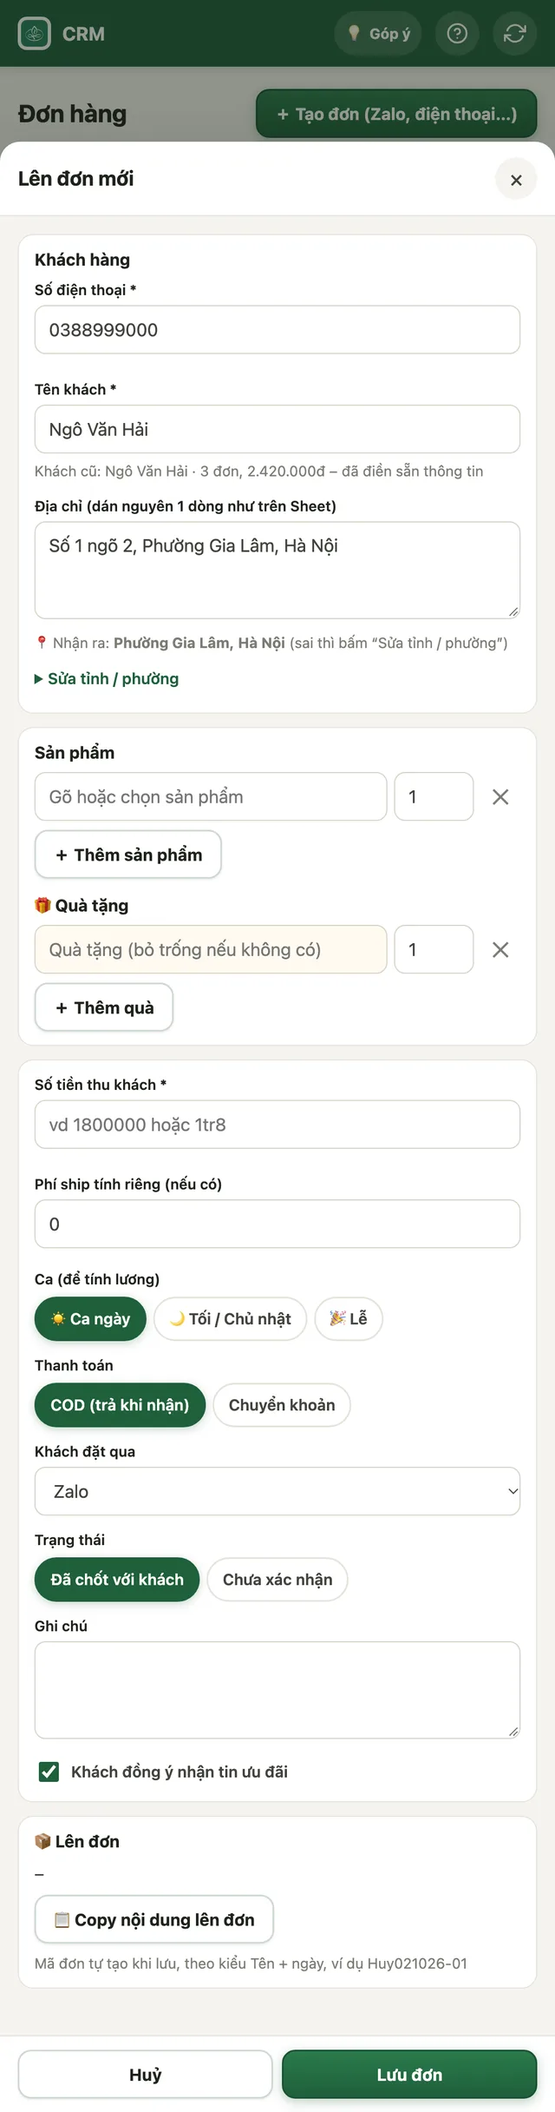
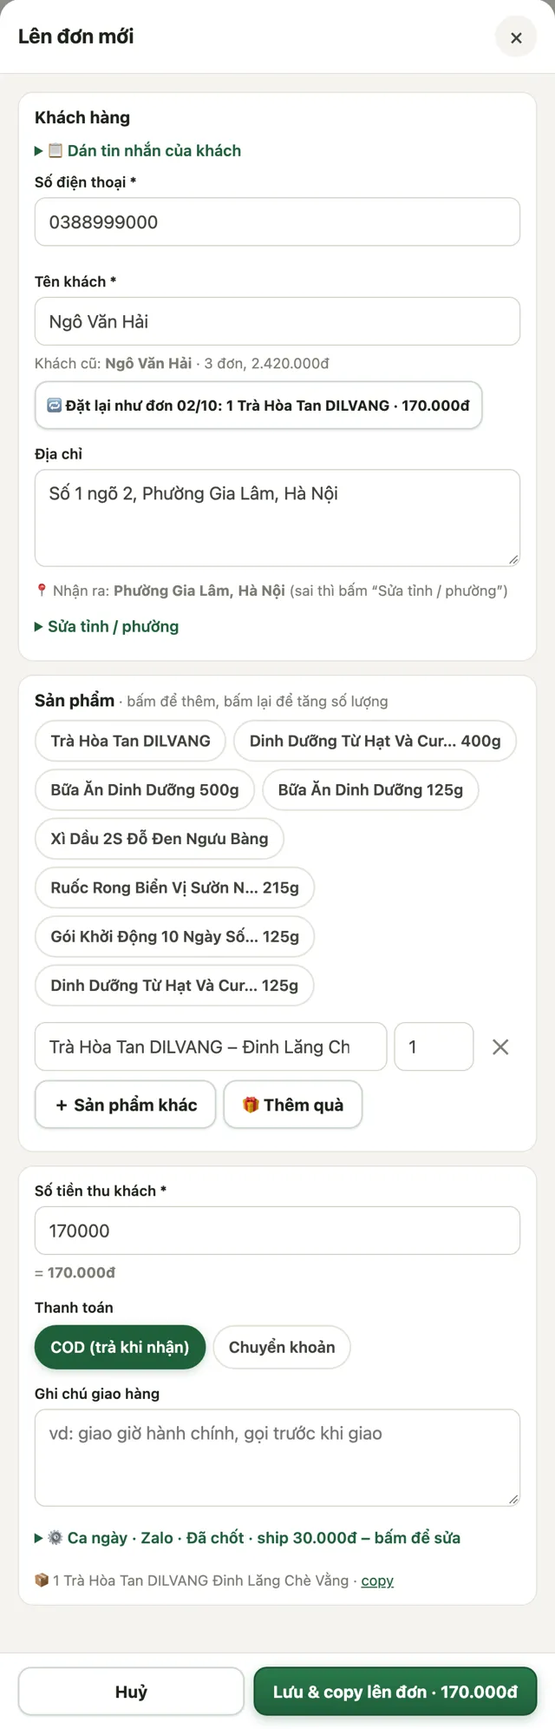
CRM: form lên đơn gọn hơn (dán tin Zalo, đặt lại như đơn trước, nút sản phẩm, gom tuỳ chọn, Lưu & copy lên đơn); ca chỉ quản lý sửa (nhận máy chủ 2026-10-05b)

diff --git a/crm/app.js b/crm/app.js
@@ -101,7 +101,7 @@
   var SERVER_V = '2026-10-02a'; // phải trùng số phiên bản máy chủ (api/src/index.js)
   var ON_CF = !/script\.google/.test(CFG.endpoint || ''); // máy chủ Cloudflare (nhanh) hay Apps Script cũ
   function checkVersion(j) {
-    if (!j || S._vWarned || j.v === SERVER_V || j.v === '2026-10-02b' || j.v === '2026-10-02c' || j.v === '2026-10-04a' || j.v === '2026-10-04b' || j.v === '2026-10-04c' || j.v === '2026-10-05a' || j.v === 'moved') return;
+    if (!j || S._vWarned || j.v === SERVER_V || j.v === '2026-10-02b' || j.v === '2026-10-02c' || j.v === '2026-10-04a' || j.v === '2026-10-04b' || j.v === '2026-10-04c' || j.v === '2026-10-05a' || j.v === '2026-10-05b' || j.v === 'moved') return;
     S._vWarned = true;
     if (lvl() >= 2 || (j.user && j.user.level >= 2)) toast('⚠ Máy chủ Apps Script đang chạy bản cũ (' + (j.v || 'chưa có số phiên bản') + '), cần bản ' + SERVER_V + '. Vào Apps Script → Triển khai → Quản lý các bản triển khai → ✏ → Phiên bản: Phiên bản mới → Triển khai.', true);
   }
@@ -1379,46 +1379,68 @@
   }
   function openNewOrder(phone) { openOrderForm({ phone: phone }); }
   /** Form đơn hàng dùng chung: tạo đơn mới (opt.phone), chốt đơn từ khách hỏi (opt.lead), sửa đơn (opt.order). */
+  /** Tin Zalo khách gửi ("Lan 0912 345 678, số 5 ngõ 12 Cầu Giấy, Hà Nội") → { phone, name, address }. */
+  function parseMsg(text) {
+    var t = String(text || '').replace(/\r/g, ''), out = { phone: '', name: '', address: '' };
+    var pm = t.match(/(?:\+?84|0)(?:[\s.\-]?\d){8,10}/); if (pm) { out.phone = normPhone(pm[0]); t = t.replace(pm[0], '\n'); }
+    var lab = function (re) { var m = t.match(re); if (!m) return ''; t = t.replace(m[0], '\n'); return m[1].trim(); };
+    out.name = lab(/(?:^|\n)\s*(?:họ\s*tên|tên(?:\s*khách)?|người\s*nhận)\s*[:\-]\s*([^\n]+)/i);
+    out.address = lab(/(?:^|\n)\s*(?:địa\s*chỉ|đ\/?c|dc)\s*[:\-]\s*([^\n]+(?:\n(?!\s*\S+\s*:)[^\n]+)*)/i);
+    t = t.replace(/(?:^|\n)\s*(?:sđt|sdt|số\s*điện\s*thoại|điện\s*thoại|đt)\s*[:\-]?\s*(?=\n|$)/gi, '\n');
+    var parts = t.split(/\n|,(?=\s*\D)/).map(function (s) { return s.replace(/^[\s,;:\-–.]+|[\s,;:\-–.]+$/g, ''); }).filter(Boolean);
+    if (!out.name) { var i = parts.findIndex(function (s) { return !/\d/.test(s) && s.split(/\s+/).length <= 5 && !/(phường|xã|quận|huyện|tỉnh|thành phố|tp|thôn|ngõ|ngách|đường|phố)\b/i.test(s); }); if (i >= 0) { out.name = parts[i]; parts.splice(i, 1); } }
+    if (!out.address) out.address = parts.join(', ');
+    out.address = out.address.replace(/\s*\n\s*/g, ', ').replace(/\s{2,}/g, ' ').trim();
+    return out;
+  }
+  function shortLabel(n) { var p = String(n).split(' – '), v = (p[1] || '').match(/\d+\s*(g|kg|ml|gói)\b/i); var s = p[0].replace(/\s+VitaGreen\b/i, '').trim(); return (s.length > 26 ? s.slice(0, 24) + '…' : s) + (v ? ' ' + v[0].replace(/\s/g, '') : p[1] && p[1].length <= 10 ? ' ' + p[1] : ''); }
+  var CA_LABEL = { 'Ngày': '☀ Ca ngày', 'Tối/CN': '🌙 Tối / CN', 'Lễ': '🎉 Lễ' };
   function openOrderForm(opt) {
     opt = opt || {};
-    var P = productOptions(), byLabel = {}, eo = opt.order || null, lead = opt.lead || null;
+    var P = productOptions(), byLabel = {}, eo = opt.order || null, lead = opt.lead || null, mgr = lvl() >= 2;
     P.forEach(function (p) { byLabel[norm(p.label)] = p; });
     var c0 = eo ? { phone: eo.phone, name: eo.name, address: eo.address, province: eo.province, ward: eo.ward, consent: eo.consent }
       : cust(opt.phone || (lead && lead.phone) || '') || (lead ? { phone: lead.phone, name: lead.name, address: '', province: '', ward: '', consent: false, isLead: true } : null);
     var names = P.map(function (p) { return p.label; }); soldNames().forEach(function (n) { if (names.indexOf(n) < 0) names.push(n); });
     var row = function (cls, it) {
-      return '<div class="item2 ' + cls + '"><input type="text" class="iName" list="noProducts" placeholder="' + (cls === 'gift' ? 'Quà tặng (bỏ trống nếu không có)' : 'Gõ hoặc chọn sản phẩm') + '" value="' + esc(it ? it.name + (it.variant ? ' – ' + it.variant : '') : '') + '">' +
+      return '<div class="item2 ' + cls + '"><input type="text" class="iName" list="noProducts" placeholder="' + (cls === 'gift' ? 'Tên quà tặng' : 'Gõ tên sản phẩm khác') + '" value="' + esc(it ? it.name + (it.variant ? ' – ' + it.variant : '') : '') + '">' +
         '<input type="number" class="iQty" min="1" max="999" inputmode="numeric" value="' + (it ? it.qty : 1) + '" aria-label="Số lượng"><button type="button" class="rm" aria-label="Bỏ">✕</button></div>';
     };
     var start = eo ? parseItems(eo.items) : [], sItems = start.filter(function (i) { return !i.gift; }), sGifts = start.filter(function (i) { return i.gift; });
     if (!eo && lead && lead.interest) sItems = [{ name: lead.interest, variant: '', qty: 1 }];
     var ca = eo ? (eo.ca || 'Ngày') : caNow(), fullAddr = c0 ? [c0.address, c0.ward, c0.province].filter(Boolean).join(', ') : '';
+    var src0 = store('crm_osrc'); if (SOURCES.indexOf(src0) < 0) src0 = SOURCES[0]; // nhớ lựa chọn lần trước của từng người
+    var caField = mgr ? '<div class="f"><span class="lbl">Ca (để tính hoa hồng)</span><div class="radios">' + ['Ngày', 'Tối/CN', 'Lễ'].map(function (c) { return '<label><input type="radio" name="ca" value="' + c + '"' + (c === ca ? ' checked' : '') + '><span>' + CA_LABEL[c] + '</span></label>'; }).join('') + '</div></div>'
+      : '<p class="hint" style="margin:0 0 12px">Ca: <b>' + CA_LABEL[ca] + '</b> – ' + (eo ? 'đã ghi khi tạo đơn' : 'tự ghi theo giờ tạo đơn') + '. Sai ca thì nhờ quản lý sửa.</p>';
     var body = '<form id="noForm" novalidate>' +
       (lead ? '<div class="notice info">🛒 Chốt đơn cho khách hỏi <b>' + esc(lead.name) + '</b>. Lưu đơn xong, khách tự chuyển sang “Đã chốt”.</div>' : '') +
       (eo ? '<div class="notice">Đang sửa đơn <b>' + esc(eo.id) + '</b>. Lưu xong, số đơn / tổng chi của khách được tính lại.</div>' : '') +
-      '<div class="box"><h3>Khách hàng</h3><div class="row2c"><label class="f"><span>Số điện thoại *</span><input type="tel" name="phone" inputmode="tel" value="' + esc(c0 ? c0.phone : '') + '"></label>' +
+      '<div class="box"><h3>Khách hàng</h3>' +
+      (eo ? '' : '<details class="paste"' + (c0 ? '' : ' open') + '><summary>📋 Dán tin nhắn của khách</summary><textarea id="noPaste" rows="3" placeholder="Dán nguyên tin Zalo của khách (tên, số điện thoại, địa chỉ) – CRM tự tách vào các ô dưới"></textarea><p class="hint" id="noPasteHint" style="margin:4px 0 10px"></p></details>') +
+      '<div class="row2c"><label class="f"><span>Số điện thoại *</span><input type="tel" name="phone" inputmode="tel" value="' + esc(c0 ? c0.phone : '') + '"></label>' +
       '<label class="f"><span>Tên khách *</span><input type="text" name="name" value="' + esc(c0 ? c0.name : '') + '"></label></div>' +
-      '<p class="hint" id="noOld">' + (c0 && !eo && !c0.isLead ? 'Khách cũ: ' + c0.orders + ' đơn, ' + money(c0.spent) : '') + '</p><div id="noFlag"></div>' +
-      '<label class="f"><span>Địa chỉ (dán nguyên 1 dòng như trên Sheet)</span><textarea name="full" rows="2" placeholder="Số nhà, đường, phường/xã, tỉnh/thành">' + esc(fullAddr) + '</textarea></label>' +
+      '<div class="hint" id="noOld"></div><div id="noFlag"></div>' +
+      '<label class="f"><span>Địa chỉ</span><textarea name="full" rows="2" placeholder="Số nhà, đường, phường/xã, tỉnh/thành">' + esc(fullAddr) + '</textarea></label>' +
       '<p class="hint" id="noAddrHint"></p>' +
       '<details class="addr-more"><summary>Sửa tỉnh / phường</summary><div class="row2c"><label class="f"><span>Tỉnh / Thành phố</span><select name="province"><option value="">– Chọn –</option></select></label>' +
       '<label class="f"><span>Phường / Xã</span><input type="text" name="ward" list="noWards" autocomplete="off" value="' + esc(c0 ? c0.ward : '') + '"><datalist id="noWards"></datalist></label></div></details></div>' +
       '<datalist id="noProducts">' + names.map(function (n) { return '<option value="' + esc(n) + '">'; }).join('') + '</datalist>' +
-      '<div class="box"><h3>Sản phẩm</h3><div class="items" id="noItems">' + (sItems.length ? sItems.map(function (i) { return row('prod', i); }).join('') : row('prod')) + '</div><button type="button" class="btn" id="noAdd" style="margin-top:8px">＋ Thêm sản phẩm</button>' +
-      '<h3 style="margin-top:14px">🎁 Quà tặng</h3><div class="items" id="noGifts">' + (sGifts.length ? sGifts.map(function (i) { return row('gift', i); }).join('') : row('gift')) + '</div><button type="button" class="btn" id="noAddGift" style="margin-top:8px">＋ Thêm quà</button></div>' +
-      '<div class="box"><div class="row2c"><label class="f"><span>Số tiền thu khách *</span><input type="text" name="total" inputmode="decimal" autocomplete="off" placeholder="vd 1800000 hoặc 1tr8" value="' + (eo ? eo.total : '') + '"></label>' +
-      '<label class="f"><span>Phí ship tính riêng (nếu có)</span><input type="number" name="shipping" min="0" step="1000" inputmode="numeric" value="' + (eo ? eo.shipping : 0) + '"></label></div><p class="hint" id="noTotalHint"></p>' +
-      '<div class="f"><span class="lbl">Ca (để tính lương)</span><div class="radios">' + ['Ngày', 'Tối/CN', 'Lễ'].map(function (c) { return '<label><input type="radio" name="ca" value="' + c + '"' + (c === ca ? ' checked' : '') + '><span>' + (c === 'Ngày' ? '☀ Ca ngày' : c === 'Tối/CN' ? '🌙 Tối / Chủ nhật' : '🎉 Lễ') + '</span></label>'; }).join('') + '</div></div>' +
+      '<div class="box"><h3>Sản phẩm <span class="muted small" style="font-weight:400">· bấm để thêm, bấm lại để tăng số lượng</span></h3><div class="chips wrap" id="noChips"></div>' +
+      '<div class="items" id="noItems">' + (sItems.length ? sItems.map(function (i) { return row('prod', i); }).join('') : row('prod')) + '</div>' +
+      '<div class="steps" style="margin-top:8px"><button type="button" class="btn" id="noAdd">＋ Sản phẩm khác</button><button type="button" class="btn" id="noAddGift">🎁 Thêm quà</button></div>' +
+      '<div class="items" id="noGifts" style="margin-top:8px">' + sGifts.map(function (i) { return row('gift', i); }).join('') + '</div></div>' +
+      '<div class="box"><label class="f"><span>Số tiền thu khách *</span><input type="text" name="total" inputmode="decimal" autocomplete="off" placeholder="vd 1800000 hoặc 1tr8" value="' + (eo ? eo.total : '') + '"></label><p class="hint" id="noTotalHint"></p>' +
       '<div class="f"><span class="lbl">Thanh toán</span><div class="radios"><label><input type="radio" name="payment" value="cod"' + (eo && isBank(eo) ? '' : ' checked') + '><span>COD (trả khi nhận)</span></label><label><input type="radio" name="payment" value="bank"' + (eo && isBank(eo) ? ' checked' : '') + '><span>Chuyển khoản</span></label></div></div>' +
-      (eo ? '<label class="f"><span>Lý do sửa (không bắt buộc)</span><input type="text" name="reason" placeholder="vd: khách đổi sang hộp 400g"></label>' :
-        (lead ? '' : '<label class="f"><span>Khách đặt qua</span><select name="source">' + SOURCES.map(function (s) { return '<option>' + s + '</option>'; }).join('') + '</select></label>') +
+      (eo ? '<label class="f"><span>Lý do sửa (không bắt buộc)</span><input type="text" name="reason" placeholder="vd: khách đổi sang hộp 400g"></label>' : '<label class="f"><span>Ghi chú giao hàng</span><textarea name="note" rows="2" placeholder="vd: giao giờ hành chính, gọi trước khi giao"></textarea></label>') +
+      '<details class="addr-more opts" id="noOpts"><summary>⚙ <span id="noOptSum"></span></summary>' + caField +
+      '<label class="f"><span>Phí ship tính riêng (nếu có)</span><input type="number" name="shipping" min="0" step="1000" inputmode="numeric" value="' + (eo ? eo.shipping : 0) + '"></label>' +
+      (eo ? '' : (lead ? '' : '<label class="f"><span>Khách đặt qua</span><select name="source">' + SOURCES.map(function (s) { return '<option' + (s === src0 ? ' selected' : '') + '>' + s + '</option>'; }).join('') + '</select></label>') +
         '<div class="f"><span class="lbl">Trạng thái</span><div class="radios"><label><input type="radio" name="status" value="Đã xác nhận" checked><span>Đã chốt với khách</span></label><label><input type="radio" name="status" value="Mới"><span>Chưa xác nhận</span></label></div></div>' +
-        '<label class="f"><span>Ghi chú</span><textarea name="note" rows="2"></textarea></label>' +
-        '<label class="switch"><input type="checkbox" name="consent"' + (c0 && c0.consent ? ' checked' : '') + '> Khách đồng ý nhận tin ưu đãi</label>') + '</div>' +
-      '<div class="box"><h3>📦 Lên đơn</h3><p class="pre" id="noShip" style="margin:0 0 8px"></p><button type="button" class="btn" id="noCopy">📋 Copy nội dung lên đơn</button><p class="hint" style="margin:8px 0 0">' + (eo ? 'Mã đơn: <b>' + esc(eo.id) + '</b>' : 'Mã đơn tự tạo khi lưu, theo kiểu Tên + ngày, ví dụ ' + esc((S.user.prefix || slugName(S.user.name)) + fDate(Date.now()).replace(/\//g, '').replace(/^(\d{4})\d{2}(\d{2})$/, '$1$2') + '-01')) + '</p></div>' +
+        '<label class="switch"><input type="checkbox" name="consent"' + (c0 && c0.consent ? ' checked' : '') + '> Khách đồng ý nhận tin ưu đãi</label>') + '</details>' +
+      '<p class="hint" style="margin:10px 0 0">📦 <span id="noShip"></span> · <a href="#" id="noCopy">copy</a>' + (eo ? ' · Mã đơn <b>' + esc(eo.id) + '</b>' : '') + '</p></div>' +
       '<p class="err" id="noErr"></p></form>';
     var m = modal(eo ? 'Sửa đơn ' + esc(eo.id) : lead ? 'Chốt đơn: ' + esc(lead.name) : 'Lên đơn mới', body, '<button class="btn" data-close>Huỷ</button><button class="btn pri" id="noSave">Lưu đơn</button>');
-    var form = $('#noForm', m), F = form.elements, items = $('#noItems', m), gifts = $('#noGifts', m), prov = F.province, ward = F.ward, totalEdited = !!eo;
+    var form = $('#noForm', m), F = form.elements, items = $('#noItems', m), gifts = $('#noGifts', m), prov = F.province, ward = F.ward, totalEdited = !!eo, curC = c0 && !c0.isLead && !eo ? c0 : null;
     loadUnits().then(function (u) {
       prov.innerHTML = '<option value="">– Chọn –</option>' + u.map(function (p) { return '<option>' + esc(p.n) + '</option>'; }).join('');
       if (c0 && c0.province) setProvince(c0.province, c0.ward); else addrChanged();
@@ -1434,13 +1456,55 @@
     prov.onchange = function () { fillWards(); addrHint(); }; ward.addEventListener('input', addrHint);
     F.full.addEventListener('input', function () { clearTimeout(F.full._t); F.full._t = setTimeout(addrChanged, 300); });
     function flagOf(c) { return c && c.flag ? '<div class="notice">⚠ Khách có nhãn <b>' + esc(c.flag) + '</b>. Kiểm tra kỹ trước khi gửi hàng (nên chuyển khoản trước).</div>' : ''; }
-    $('#noFlag', m).innerHTML = flagOf(c0);
-    F.phone.addEventListener('input', function () {
-      var c = cust(this.value), hint = $('#noOld', m);
-      hint.textContent = c ? 'Khách cũ: ' + c.name + ' · ' + c.orders + ' đơn, ' + money(c.spent) + ' – đã điền sẵn thông tin' : '';
+    /* ---- khách cũ: thông tin + nút đặt lại như đơn trước */
+    function lastOrder(c) { return c ? ordersOf(c.phone).filter(function (o) { return !/huỷ|hủy|hoàn/i.test(o.status) && parseItems(o.items).length; })[0] : null; }
+    function showOld(c) {
+      var lo = eo ? null : lastOrder(c), el = $('#noOld', m);
+      el.innerHTML = c ? 'Khách cũ: <b>' + esc(c.name) + '</b> · ' + c.orders + ' đơn, ' + money(c.spent) + (lo ? '<button type="button" class="btn sm" id="noRepeat" style="display:block;margin:6px 0 4px">🔁 Đặt lại như đơn ' + fDate(lo.time).slice(0, 5) + ': ' + esc(parseItems(lo.items).filter(function (i) { return !i.gift; }).slice(0, 3).map(function (i) { return i.qty + ' ' + shortLabel(i.name + (i.variant ? ' – ' + i.variant : '')); }).join(', ')) + ' · ' + moneyShort(lo.total) + '</button>' : '') : '';
       $('#noFlag', m).innerHTML = flagOf(c);
+      if (lo) $('#noRepeat', m).onclick = function () {
+        var its = parseItems(lo.items), ps = its.filter(function (i) { return !i.gift; }), gs = its.filter(function (i) { return i.gift; });
+        items.innerHTML = ps.map(function (i) { return row('prod', i); }).join('') || row('prod'); gifts.innerHTML = gs.map(function (i) { return row('gift', i); }).join('');
+        F.total.value = lo.total; totalEdited = true; F.shipping.value = lo.shipping || 0;
+        var pb = $('input[name=payment][value=' + (isBank(lo) ? 'bank' : 'cod') + ']', form); if (pb) pb.checked = true;
+        calc(); toast('Đã điền như đơn ' + fDate(lo.time) + ' – sửa chỗ nào khác rồi lưu');
+      };
+      renderChips(c);
+    }
+    function fillFrom(c) {
+      if (!F.name.value) F.name.value = c.name;
+      if (!F.full.value.trim()) { F.full.value = [c.address, c.ward, c.province].filter(Boolean).join(', '); if (c.province) setProvince(c.province, c.ward); else addrChanged(); }
+      if (F.consent) F.consent.checked = c.consent;
+    }
+    F.phone.addEventListener('input', function () {
+      var c = cust(this.value), hint = $('#noOld', m); curC = c || null; showOld(c);
       if (!c && lvl() < 2) checkPhone(this.value, function (r) { if (r && r.status === 'other') hint.innerHTML = ownerWarn(r); });
-      if (c) { if (!F.name.value) F.name.value = c.name; if (!F.full.value.trim()) { F.full.value = [c.address, c.ward, c.province].filter(Boolean).join(', '); if (c.province) setProvince(c.province, c.ward); } if (F.consent) F.consent.checked = c.consent; }
+      if (c) fillFrom(c);
+    });
+    /* ---- dán tin nhắn khách */
+    if ($('#noPaste', m)) $('#noPaste', m).addEventListener('input', function () {
+      var ta = this; clearTimeout(ta._t); ta._t = setTimeout(function () {
+        var r = parseMsg(ta.value), got = [];
+        if (r.phone) { F.phone.value = r.phone; F.phone.dispatchEvent(new Event('input')); got.push('SĐT'); }
+        if (r.name) { F.name.value = r.name; got.push('tên'); }
+        if (r.address && r.address.length > 8) { F.full.value = r.address; addrChanged(); got.push('địa chỉ'); }
+        $('#noPasteHint', m).textContent = ta.value.trim() ? (got.length ? '✓ Đã điền ' + got.join(', ') + ' – kiểm tra lại các ô dưới.' : 'Chưa tách được, bạn điền tay giúp nhé.') : '';
+      }, 250);
+    });
+    /* ---- nút sản phẩm hay bán (+ sản phẩm khách hay mua lên trước) */
+    function renderChips(c) {
+      var list = [], add = function (n) { if (n && list.indexOf(n) < 0) list.push(n); };
+      if (c) ordersOf(c.phone).slice(0, 5).forEach(function (o) { parseItems(o.items).forEach(function (i) { if (!i.gift) add(i.name + (i.variant ? ' – ' + i.variant : '')); }); });
+      soldNames().forEach(function (n) { if (list.length < 8) add(n); });
+      P.forEach(function (p) { if (list.length < 8) add(p.label); });
+      $('#noChips', m).innerHTML = list.slice(0, 10).map(function (n) { return '<button type="button" class="chip" data-pick="' + esc(n) + '" title="' + esc(n) + '">' + esc(shortLabel(n)) + '</button>'; }).join('');
+    }
+    $('#noChips', m).addEventListener('click', function (e) {
+      var b = e.target.closest('[data-pick]'); if (!b) return; var n = b.getAttribute('data-pick'), rows = $$('.item2', items);
+      var hit = rows.filter(function (r) { return norm($('.iName', r).value.trim()) === norm(n); })[0];
+      if (hit) { var q = $('.iQty', hit); q.value = (parseInt(q.value, 10) || 0) + 1; }
+      else { var empty = rows.filter(function (r) { return !$('.iName', r).value.trim(); })[0]; if (!empty) { items.insertAdjacentHTML('beforeend', row('prod')); empty = $('.item2:last-child', items); } $('.iName', empty).value = n; }
+      calc();
     });
     function read(box) {
       return $$('.item2', box).map(function (r) {
@@ -1450,37 +1514,42 @@
       }).filter(Boolean);
     }
     function shipLine(ls, gs) { return ls.map(function (i) { return i.qty + ' ' + i.name + (i.variant ? ' ' + i.variant : ''); }).concat(gs.map(function (i) { return i.qty + ' ' + i.name + (i.variant ? ' ' + i.variant : '') + ' (quà)'; })).join(', '); }
+    function optSum() {
+      var c = $('input[name=ca]:checked', form), st = $('input[name=status]:checked', form), ship = +F.shipping.value || 0;
+      $('#noOptSum', m).textContent = [CA_LABEL[c ? c.value : ca].replace(/^\S+ /, ''), F.source ? F.source.value : '', st ? (st.value === 'Mới' ? 'Chưa xác nhận' : 'Đã chốt') : '', ship ? 'ship ' + money(ship) : ''].filter(Boolean).join(' · ') + ' – bấm để sửa';
+    }
     function calc() {
       var ls = read(items), gs = read(gifts), base = ls.reduce(function (s, i) { return s + i.qty * i.price; }, 0), ship = Math.max(0, +F.shipping.value || 0);
       if (!totalEdited && base) F.total.value = base + ship;
       var tot = moneyIn(F.total.value);
       $('#noTotalHint', m).innerHTML = (tot ? '= <b>' + money(tot) + '</b>' : '') + (base ? ' · giá niêm yết ' + money(base) + (tot && tot - ship !== base ? ' (bạn đang bán ' + (tot - ship > base ? 'cao' : 'thấp') + ' hơn ' + money(Math.abs(tot - ship - base)) + ')' : '') : '');
-      $('#noShip', m).textContent = shipLine(ls, gs) || '–';
-      $('#noSave', m).textContent = tot ? 'Lưu đơn · ' + money(tot) : 'Lưu đơn';
+      $('#noShip', m).textContent = shipLine(ls, gs) || 'chưa có sản phẩm';
+      $('#noSave', m).textContent = (eo ? 'Lưu đơn' : 'Lưu & copy lên đơn') + (tot ? ' · ' + money(tot) : '');
+      optSum();
     }
     [items, gifts].forEach(function (box) {
       box.addEventListener('input', calc);
-      box.addEventListener('click', function (e) { if (e.target.classList.contains('rm')) { var r = e.target.closest('.item2'); if ($$('.item2', box).length > 1) r.remove(); else { $('.iName', r).value = ''; $('.iQty', r).value = 1; } calc(); } });
+      box.addEventListener('click', function (e) { if (e.target.classList.contains('rm')) { var r = e.target.closest('.item2'); if (box === gifts || $$('.item2', box).length > 1) r.remove(); else { $('.iName', r).value = ''; $('.iQty', r).value = 1; } calc(); } });
     });
     $('#noAdd', m).onclick = function () { items.insertAdjacentHTML('beforeend', row('prod')); $('.item2:last-child .iName', items).focus(); };
     $('#noAddGift', m).onclick = function () { gifts.insertAdjacentHTML('beforeend', row('gift')); $('.item2:last-child .iName', gifts).focus(); };
     F.total.addEventListener('input', function () { totalEdited = true; calc(); });
-    F.shipping.addEventListener('input', calc);
-    $('#noCopy', m).onclick = function () {
-      var addr = F.full.value.trim(); copy(F.name.value.trim() + ' – ' + normPhone(F.phone.value) + '\n' + addr + '\n' + $('#noShip', m).textContent + '\nThu: ' + money(moneyIn(F.total.value)) + ($('input[name=payment]:checked', form).value === 'bank' ? ' (đã chuyển khoản)' : ' (COD)')).then(function () { toast('Đã copy nội dung lên đơn'); });
-    };
-    calc();
+    F.shipping.addEventListener('input', calc); $('#noOpts', m).addEventListener('change', optSum);
+    var shipText = function () { var addr = F.full.value.trim(); return F.name.value.trim() + ' – ' + normPhone(F.phone.value) + '\n' + addr + '\n' + $('#noShip', m).textContent + '\nThu: ' + money(moneyIn(F.total.value)) + ($('input[name=payment]:checked', form).value === 'bank' ? ' (đã chuyển khoản)' : ' (COD)') + (F.note && F.note.value.trim() ? '\nGhi chú: ' + F.note.value.trim() : ''); };
+    $('#noCopy', m).onclick = function (e) { e.preventDefault(); copy(shipText()).then(function () { toast('Đã copy nội dung lên đơn'); }); };
+    showOld(curC); calc();
     $('#noSave', m).onclick = function () {
       var err = $('#noErr', m), ph = normPhone(F.phone.value), ls = read(items), gs = read(gifts), tot = moneyIn(F.total.value), ship = Math.max(0, +F.shipping.value || 0);
       if (!/^0\d{9,10}$/.test(ph)) { err.textContent = 'Số điện thoại chưa đúng (10 số, bắt đầu bằng 0).'; F.phone.focus(); return; }
       if (!F.name.value.trim()) { err.textContent = 'Nhập tên khách.'; F.name.focus(); return; }
       if (!ls.length) { err.textContent = 'Nhập ít nhất 1 sản phẩm.'; return; }
       if (!tot) { err.textContent = 'Nhập số tiền thu khách.'; F.total.focus(); return; }
-      if (tot < ship) { err.textContent = 'Số tiền thu khách nhỏ hơn phí ship.'; return; }
+      if (tot < ship) { err.textContent = 'Số tiền thu khách nhỏ hơn phí ship.'; $('#noOpts', m).open = true; return; }
       ls.forEach(function (i) { if (!i.price) i.price = Math.round((tot - ship) / ls.length / i.qty); }); // chưa có giá niêm yết: chia đều, máy tính lại theo tổng
+      if (!eo) copy(shipText()); // copy ngay lúc bấm (điện thoại chỉ cho copy khi vừa bấm)
       var btn = this; btn.disabled = true; btn.textContent = 'Đang lưu…'; err.textContent = '';
       var full = F.full.value.trim(), cu = { phone: ph, name: F.name.value.trim(), province: prov.value, ward: ward.value.trim(), address: full };
-      var common = { customer: cu, items: ls, gifts: gs, total: tot, shipping: ship, payment: $('input[name=payment]:checked', form).value, ca: ($('input[name=ca]:checked', form) || {}).value };
+      var caIn = $('input[name=ca]:checked', form), common = { customer: cu, items: ls, gifts: gs, total: tot, shipping: ship, payment: $('input[name=payment]:checked', form).value, ca: mgr && caIn ? caIn.value : undefined }; // nhân viên: máy chủ tự ghi ca theo giờ tạo đơn
       var fail = function (e) { btn.disabled = false; calc(); err.textContent = e.message; };
       if (eo) {
         common.id = eo.id; common.row = eo.row; common.reason = F.reason.value.trim();
@@ -1488,9 +1557,10 @@
         return;
       }
       cu.note = F.note.value.trim(); common.status = $('input[name=status]:checked', form).value; common.source = F.source ? F.source.value : ''; common.consent = F.consent.checked; common.leadId = lead ? lead.id : '';
+      if (F.source) store('crm_osrc', F.source.value);
       api('order_create', common).then(function (j) {
         if (lead) { lead.status = 'Đã chốt'; lead.orderId = j.id; lead.callback = null; }
-        closeModal(); toast('Đã tạo đơn ' + j.id + ' ✓'); location.hash = '#don-hang'; load(true);
+        closeModal(); toast('Đã tạo đơn ' + j.id + ' ✓ · nội dung lên đơn đã copy, dán sang bên vận chuyển'); location.hash = '#don-hang'; load(true);
       }, fail);
     };
   }

diff --git a/crm/app.css b/crm/app.css
@@ -131,6 +131,11 @@ main { max-width: 1180px; margin: 0 auto; padding: 16px 16px calc(var(--nav-h) +
 .chips::-webkit-scrollbar { display: none; }
 .chip { flex: none; border: 1px solid var(--line); background: #fff; border-radius: 999px; padding: 6px 12px; font-size: 13px; font-weight: 600; cursor: pointer; color: var(--text); white-space: nowrap; }
 .chip.on { background: var(--primary); border-color: var(--primary); color: #fff; }
+.chips.wrap { flex-wrap: wrap; overflow: visible; }
+details.paste summary { cursor: pointer; color: var(--primary); font-size: 14px; font-weight: 600; padding: 2px 0 8px; }
+details.paste textarea { width: 100%; }
+details.opts { margin-top: 4px; }
+.btn.sm { padding: 6px 10px; font-size: 13px; text-align: left; white-space: normal; }
 .chip em { font-style: normal; opacity: .7; margin-left: 2px; }
 .switch { display: inline-flex; align-items: center; gap: 8px; font-size: 14px; font-weight: 600; cursor: pointer; user-select: none; }
 .switch input { width: 18px; height: 18px; accent-color: var(--primary); }

diff --git a/guide/crm.md b/guide/crm.md
@@ -112,15 +112,20 @@ Các nút khác khi mở đơn:
 
 ## Lên đơn (giống sheet VTG_lendon)
 
-Vào **Đơn hàng → ＋ Tạo đơn**, hoặc bấm **＋ Tạo đơn** trong hồ sơ khách. Các ô xếp theo đúng thứ tự trên Sheet:
+Vào **Đơn hàng → ＋ Tạo đơn**, hoặc bấm **＋ Đơn** trong hồ sơ khách.
 
-1. **SĐT, tên khách**. Khách cũ thì CRM tự điền thông tin. Khách có nhãn ⚠ *Bom hàng* thì CRM cảnh báo.
-2. **Địa chỉ**: dán nguyên 1 dòng, CRM tự nhận ra phường và tỉnh. Nhận sai thì bấm *Sửa tỉnh / phường*.
-3. **Sản phẩm + số lượng**: gõ vài chữ rồi chọn trong danh sách gợi ý.
-4. **🎁 Quà tặng + số lượng**.
-5. **Số tiền thu khách**: gõ `1800000`, `1tr8` hoặc `1,8tr` đều được. Giá linh động, CRM chỉ nhắc giá niêm yết để tham khảo.
-6. **Ca** (Ngày / Tối-CN / Lễ): CRM tự chọn theo giờ lên đơn, sửa được.
-7. Bấm **📋 Copy nội dung lên đơn** để gửi bên vận chuyển. **Mã đơn** tự tạo theo kiểu cũ, ví dụ *Phuong300926-01*.
+![Form tạo đơn mới](/huong-dan/img/crm-neworder.webp)
+
+1. **Khách hàng**: bấm **📋 Dán tin nhắn của khách** rồi dán nguyên tin Zalo (tên, số điện thoại, địa chỉ). CRM tự tách vào các ô, bạn chỉ cần kiểm tra lại. Hoặc gõ **số điện thoại**: khách cũ thì tên và địa chỉ tự điền. Khách có nhãn ⚠ *Bom hàng* thì CRM cảnh báo. Địa chỉ nhận sai tỉnh / phường thì bấm *Sửa tỉnh / phường*.
+2. **Khách cũ mua lại**: bấm **🔁 Đặt lại như đơn trước**. Sản phẩm, quà, số tiền tự điền giống đơn gần nhất, sửa chỗ nào khác là xong.
+3. **Sản phẩm**: bấm nút tên sản phẩm (sản phẩm khách hay mua và sản phẩm bán chạy hiện trước). Bấm thêm lần nữa để tăng số lượng. Sản phẩm khác thì bấm **＋ Sản phẩm khác** và gõ tên. Có quà thì bấm **🎁 Thêm quà**.
+4. **Số tiền thu khách**: gõ `1800000`, `1tr8` hoặc `1,8tr` đều được. Giá linh động, CRM chỉ nhắc giá niêm yết để tham khảo. Chọn **COD** hoặc **Chuyển khoản**, ghi **ghi chú giao hàng** nếu có.
+5. Dòng **⚙** tóm tắt các mục ít đổi (ca, khách đặt qua, trạng thái, phí ship riêng, đồng ý nhận ưu đãi). Cần sửa thì bấm vào. *Khách đặt qua* nhớ lựa chọn lần trước của bạn.
+6. Bấm **Lưu & copy lên đơn**: đơn được lưu, nội dung lên đơn đã copy sẵn, dán sang bên vận chuyển. **Mã đơn** tự tạo theo kiểu cũ, ví dụ *Phuong300926-01*.
+
+**Ca (Ngày / Tối-CN / Lễ)** dùng để tính hoa hồng nên **CRM tự ghi theo giờ bấm lưu đơn**, nhân viên không sửa được. Lên đơn muộn (vd khách chốt tối hôm trước, sáng nay mới lên) thì nhờ quản lý sửa ca trong đơn.
+
+Khách đặt qua Zalo, Facebook, điện thoại hay mua tại cửa hàng thì **luôn tạo đơn trên CRM**: khách sẽ được nhắc chăm sóc và tính doanh số cho bạn như đơn web.
 
 Trong hồ sơ khách, ô **Ghi nhanh hôm nay** tự thêm ngày ở đầu dòng, giống cách ghi trên Sheet: *“30/09: kh dùng ok, hẹn cuối tháng lấy tiếp”*. Nhật ký chăm sóc cũ từ file của bạn nằm ngay bên dưới.
 
@@ -135,23 +140,6 @@ Trong hồ sơ khách, ô **Ghi nhanh hôm nay** tự thêm ngày ở đầu dò
 Cuối ngày bấm **📋 Báo cáo cuối ngày (gửi Zalo)** ở tab **Hôm nay** (hoặc **Hiệu quả → 📋 Báo cáo ngày**). CRM tự làm báo cáo đúng mẫu nhóm đang dùng: số đơn và số mới từng dòng (Curcumin, BADD, Fucoidan Pro), sản phẩm khác, đơn từ khách cũ, **tổng doanh thu**, đơn ngoài giờ, đơn hoàn, **KH cũ đã chăm sóc (kết nối)**, **Không nghe máy**, **Lý do từ chối** (lấy từ ghi chú khi bấm *Hết tiền*, *Còn hàng*, *Không dùng nữa*…) và **luỹ kế tháng / % mục tiêu**. Sửa thêm nếu cần, bấm **📋 Copy để dán vào Zalo** rồi dán vào nhóm. Chọn ngày khác để làm báo cáo bù. Quản lý chọn được *Cả nhóm* hoặc từng người.
 
 Tab **Hiệu quả → 📊 Bảng BCDT** tự làm báo cáo doanh thu tháng: theo ngày, theo dòng sản phẩm, khách mới / cũ, đơn hoàn và doanh thu theo ca. Phía trên có sẵn **tỷ lệ chốt** (đơn mới / data mới), **trung bình mỗi đơn khách mới** và **khách cũ**, **% doanh thu từ khách cũ**, **doanh thu ngoài giờ**, **số khách cũ đã chăm sóc / không nghe máy** và **% tiến độ mục tiêu**. Cột nào cả tháng bằng 0 (dòng sản phẩm không bán) thì tự ẩn cho gọn. Bấm **Tải file Excel** để gửi báo cáo.
-
-## Tạo đơn cho khách đặt qua Zalo, điện thoại
-
-Khách đặt qua Zalo, Facebook, điện thoại hay mua tại cửa hàng thì **luôn tạo đơn trên CRM**. Khách sẽ được nhắc chăm sóc và tính doanh số cho bạn như đơn web.
-
-![Form tạo đơn mới](/huong-dan/img/crm-neworder.webp)
-
-1. Vào **Đơn hàng → ＋ Tạo đơn**. Hoặc mở hồ sơ khách, bấm **＋ Tạo đơn**.
-2. Nhập **số điện thoại**. Khách cũ thì tên và địa chỉ tự điền.
-3. Chọn **Tỉnh/Thành phố**, gõ **Phường/Xã** (máy gợi ý), nhập số nhà, đường.
-4. Chọn **sản phẩm** và số lượng. Giá tự điền, sửa được nếu có giảm giá. Bấm **＋ Thêm sản phẩm** nếu mua nhiều món. Chọn **Sản phẩm khác (tự gõ)** nếu món đó chưa có trong danh sách.
-5. **Phí ship** tự tính (30.000đ, miễn phí từ 300.000đ). Có thể sửa tay.
-6. Chọn **Khách đặt qua**, **Thanh toán** (COD hoặc chuyển khoản), **Trạng thái**:
-    - **Đã chốt với khách**: đã thống nhất xong với khách.
-    - **Chưa xác nhận**: cần gọi lại xác nhận sau.
-7. Tích **Khách đồng ý nhận tin ưu đãi** chỉ khi khách đã đồng ý.
-8. Bấm **Lưu đơn**.
 
 ## Chăm sóc khách
 

diff --git a/HUONG-DAN.md b/HUONG-DAN.md
@@ -209,3 +209,5 @@ Script tự lấy các thay đổi nhân sự đã làm ở /admin trước khi 
 - Theo bộ nhận diện Branu (`../03_Logo & Thương hiệu/`): xanh #24805B, xanh đậm #0C5233, kem #F3E0BD, nâu vàng #C79666, nâu đậm #906540 (biến CSS --primary, --primary-2, --cream, --gold, --brown).
 - Đầu trang: logo phẳng xanh (`assets/img/brand/logo*.png|webp`, tạo từ `0905…/logo TDL_004.png`). Chân trang nền #0C5233: `logo-cream.*`. Trang Giới thiệu: logo vàng 3D `logo-gold.webp`.
 - Favicon / icon điện thoại / avatar: chỉ biểu tượng búp lá + vòng vô cực (`icon-32/180/512.png`, `emblem.png`); bản 1024px cho Zalo OA, Facebook ở `../03_Logo & Thương hiệu/Avatar & icon cho web - Zalo - Facebook/`.
+
+**Form lên đơn (05/10/2026, bản máy chủ 2026-10-05b)**: `openOrderForm` có ô dán tin Zalo (`parseMsg` tách SĐT / tên / địa chỉ), nút 🔁 đặt lại như đơn gần nhất (`ordersOf`), nút sản phẩm (sản phẩm khách hay mua + `soldNames`), quà ẩn tới khi bấm, mục ⚙ gom ca / phí ship / nguồn (nhớ `localStorage crm_osrc`) / trạng thái / đồng ý nhận tin, nút "Lưu & copy lên đơn" (copy ngay lúc bấm). **Ca** chỉ quản lý (level ≥ 2) chọn được: `crmOrderCreate` bỏ `d.ca` của nhân viên và dùng `caOf(now)`, `crmOrderEdit` chỉ đổi Ca khi level ≥ 2.
